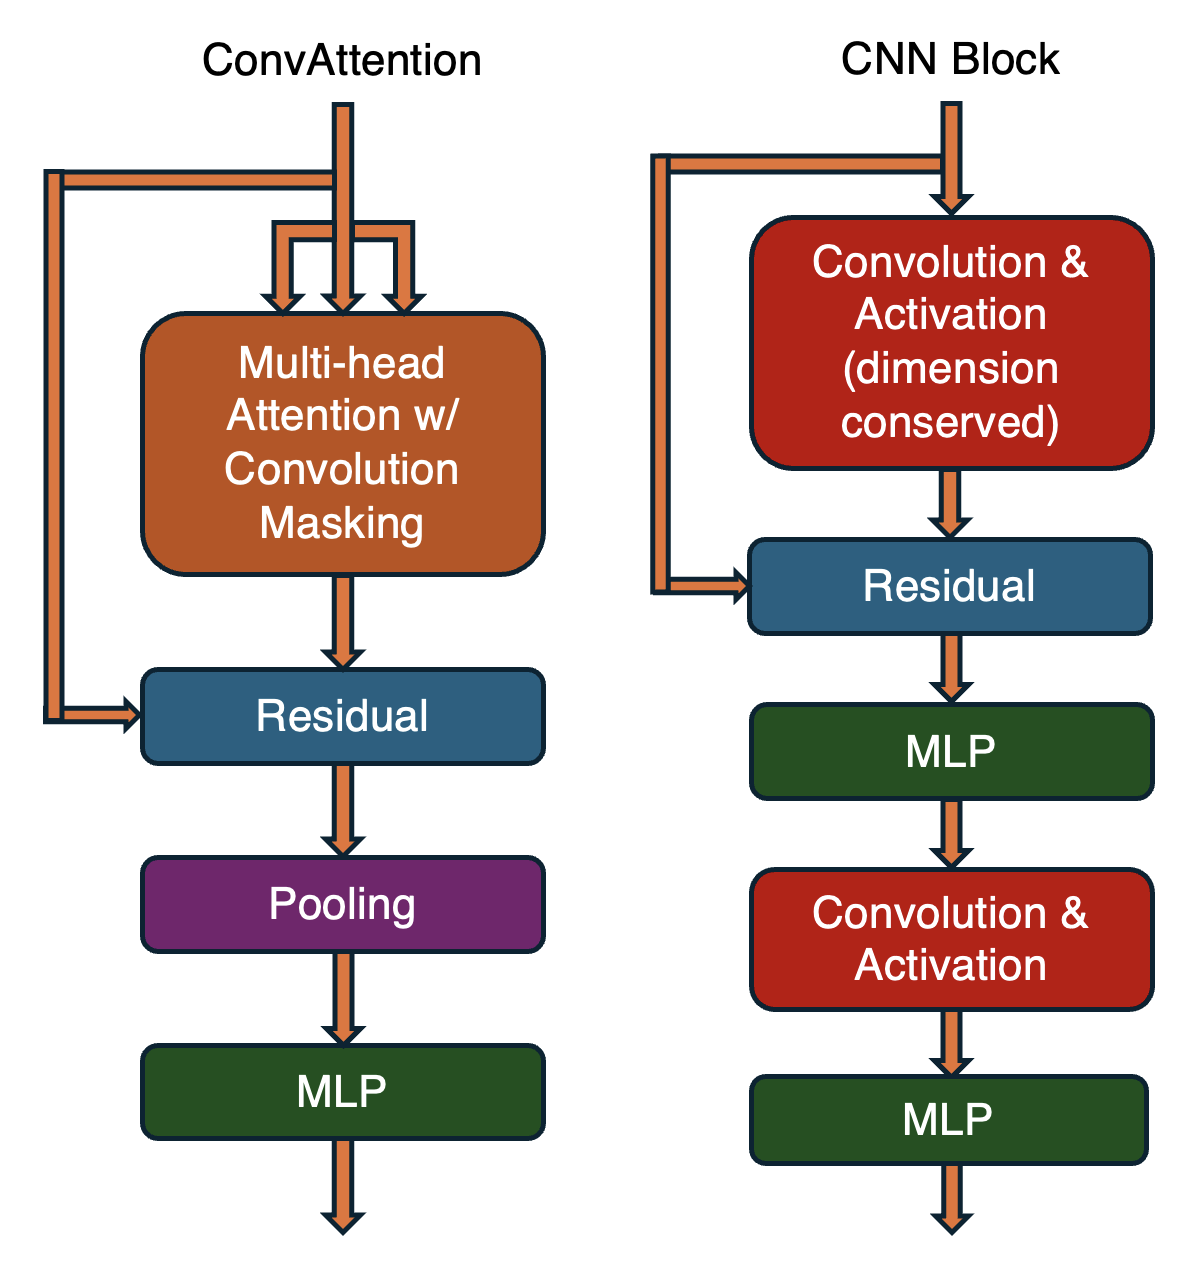
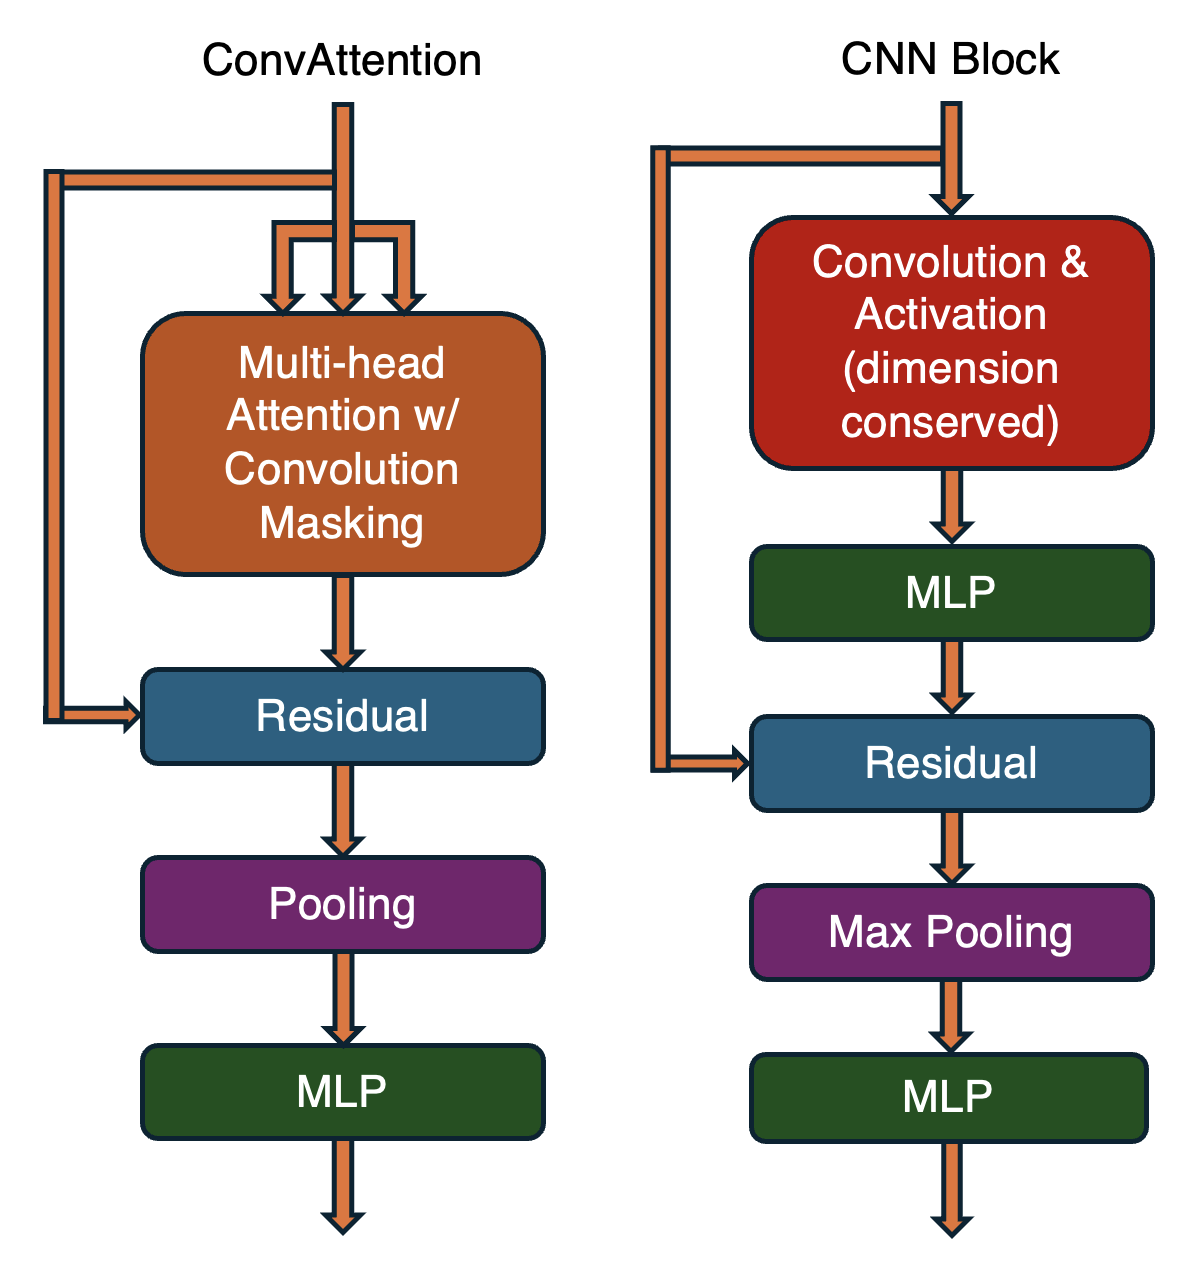
update

Changed region(s): [[0.5277, 0.3662, 0.9933, 0.9155], [0.5277, 0.0915, 0.807, 0.1526], [0.776, 0.946, 0.807, 0.9765]]

diff --git a/blog/index.html b/blog/index.html
@@ -381,7 +381,9 @@
 			The Convbrid transformer aims to emulate the behavior of extracting data from an image patch by performing convolution
             of a given kernel size as in a traditional CNNs. To this end, we developed the ConvAttention block, which is a modified
 			attention mechanism operating in a localized manner, resembling the small
-			receptive field in a convolutional kernel. The ConvAttention block achieves this by masking the attention scores of tokens, 
+			receptive field in a convolutional kernel.  <br></br>
+			
+			The ConvAttention block achieves this by masking the attention scores of tokens, 
 			such that each token can only attend to its local "neighborhood". Here, each token represents a pixels in the image.
             In a similar manner to a convolutional layer, a kernel size can be chosen. This defines the size of the "neighborhood". 
 			If 
@@ -468,11 +470,16 @@
 			We aim to quantify the level of improvement with CNN over transformers in the context of these 
 			small datasets, and confirm that the CNN will outperform the transformer. <br></br>
 
+			In order to have meaningful comparisons, we develop a convolution block with the same complexity and structure as the ConvAttention block. This convolution block composes of a convolution 
+			layer combined with a MLP, following by a residual layer, a max pooling layer, and a final MLP. The kernel size of the convolution layer is set to be the same as in the ConvAttention block.
+			The stride and padding, however, are choosen such that the dimention (or the number of tokens) is conserved. The actual stride and padding of the ConvAttention block are implemented via the
+			max pooling layer. <br></br>
+
 			The bench marking CNN is designed to allow the creation of equivalent architectures using ConvAttention layers. 
-			The networks are composed of an initial embedding layer, implemented using Torch's built-in
-			Conv2D layers with the kernel size of 3 and the stride and padding of 1. This directly map 1024 pixels to 1024 initial tokens. The embedding size of the token is chosen to be 64
-			and this is kept throughout the layers (as number of input and output channels to the convolutional layers). The tokens are then passed through 6 convolution blocks as described bellow. For the CNN we built the convolution blocks with two simple convolution layers
-			with MLP layers in between and afterwards. This is to make traditional convolution block perform and have the same complexity as the ConvAttention block. <br></br>
+			The networks are composed of an initial embedding layer, implemented using a convolution layer with the kernel size of 3 and the stride and padding of 1. 
+			This directly map 1024 pixels to 1024 initial tokens. The embedding size of the token is chosen to be 64
+			and this is kept throughout the layers (as number of input and output channels to the convolutional layers). The tokens are then passed through 6 convolution blocks as described bellow, followed by a 
+			MLP. <br></br>
 			
 			<table>
 				<thead>
@@ -529,10 +536,8 @@
 					</tr>
 				</tbody>
 			</table>
-			
-			For the transformer, TO TRAIN ACTUAL TRANSFORMER WITHOUT LOCALITY <br><br>
 
-			Each model is run until saturation, using the AdamW optimizer and Cosine Annealing scheduler. <br><br>
+			Each model is run until saturation of validating accuracy, using the AdamW optimizer and Cosine Annealing scheduler. <br><br>
 
 			<h1>ConvAttention v.s. CNN</h1>
 			To verify the functionality of the ConvAttention layer, models created using ConvAttention and CNN layers with
